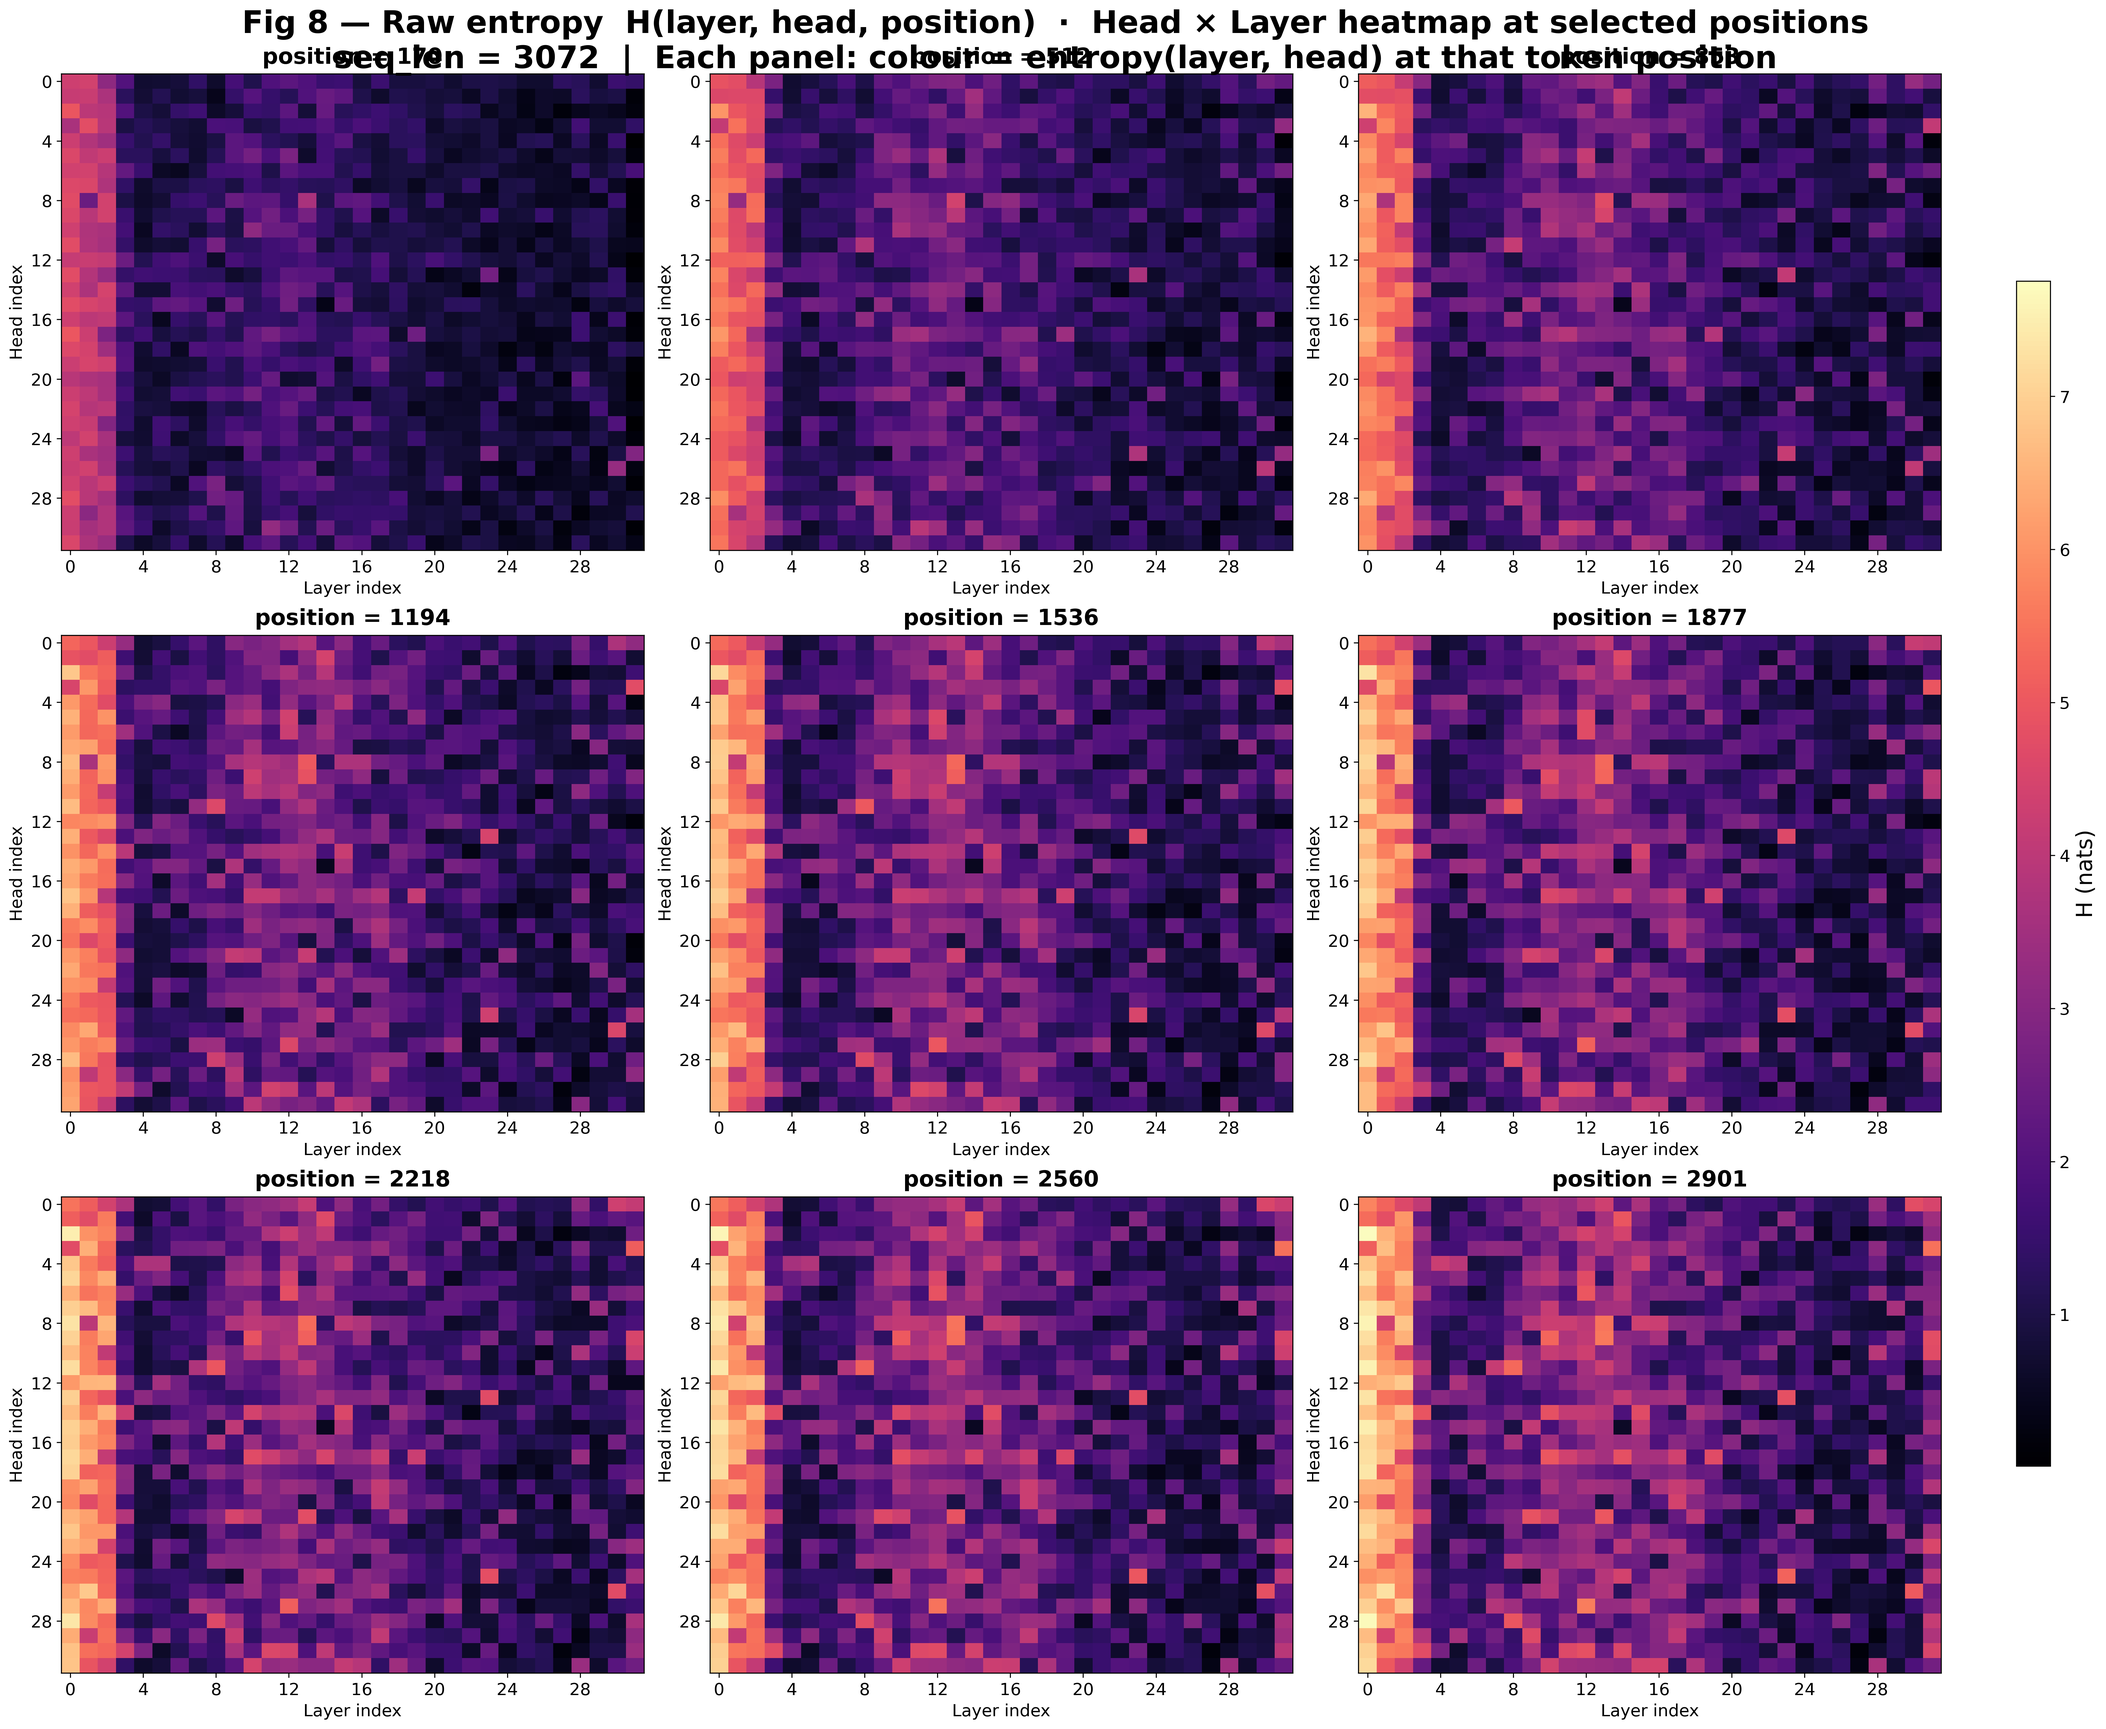
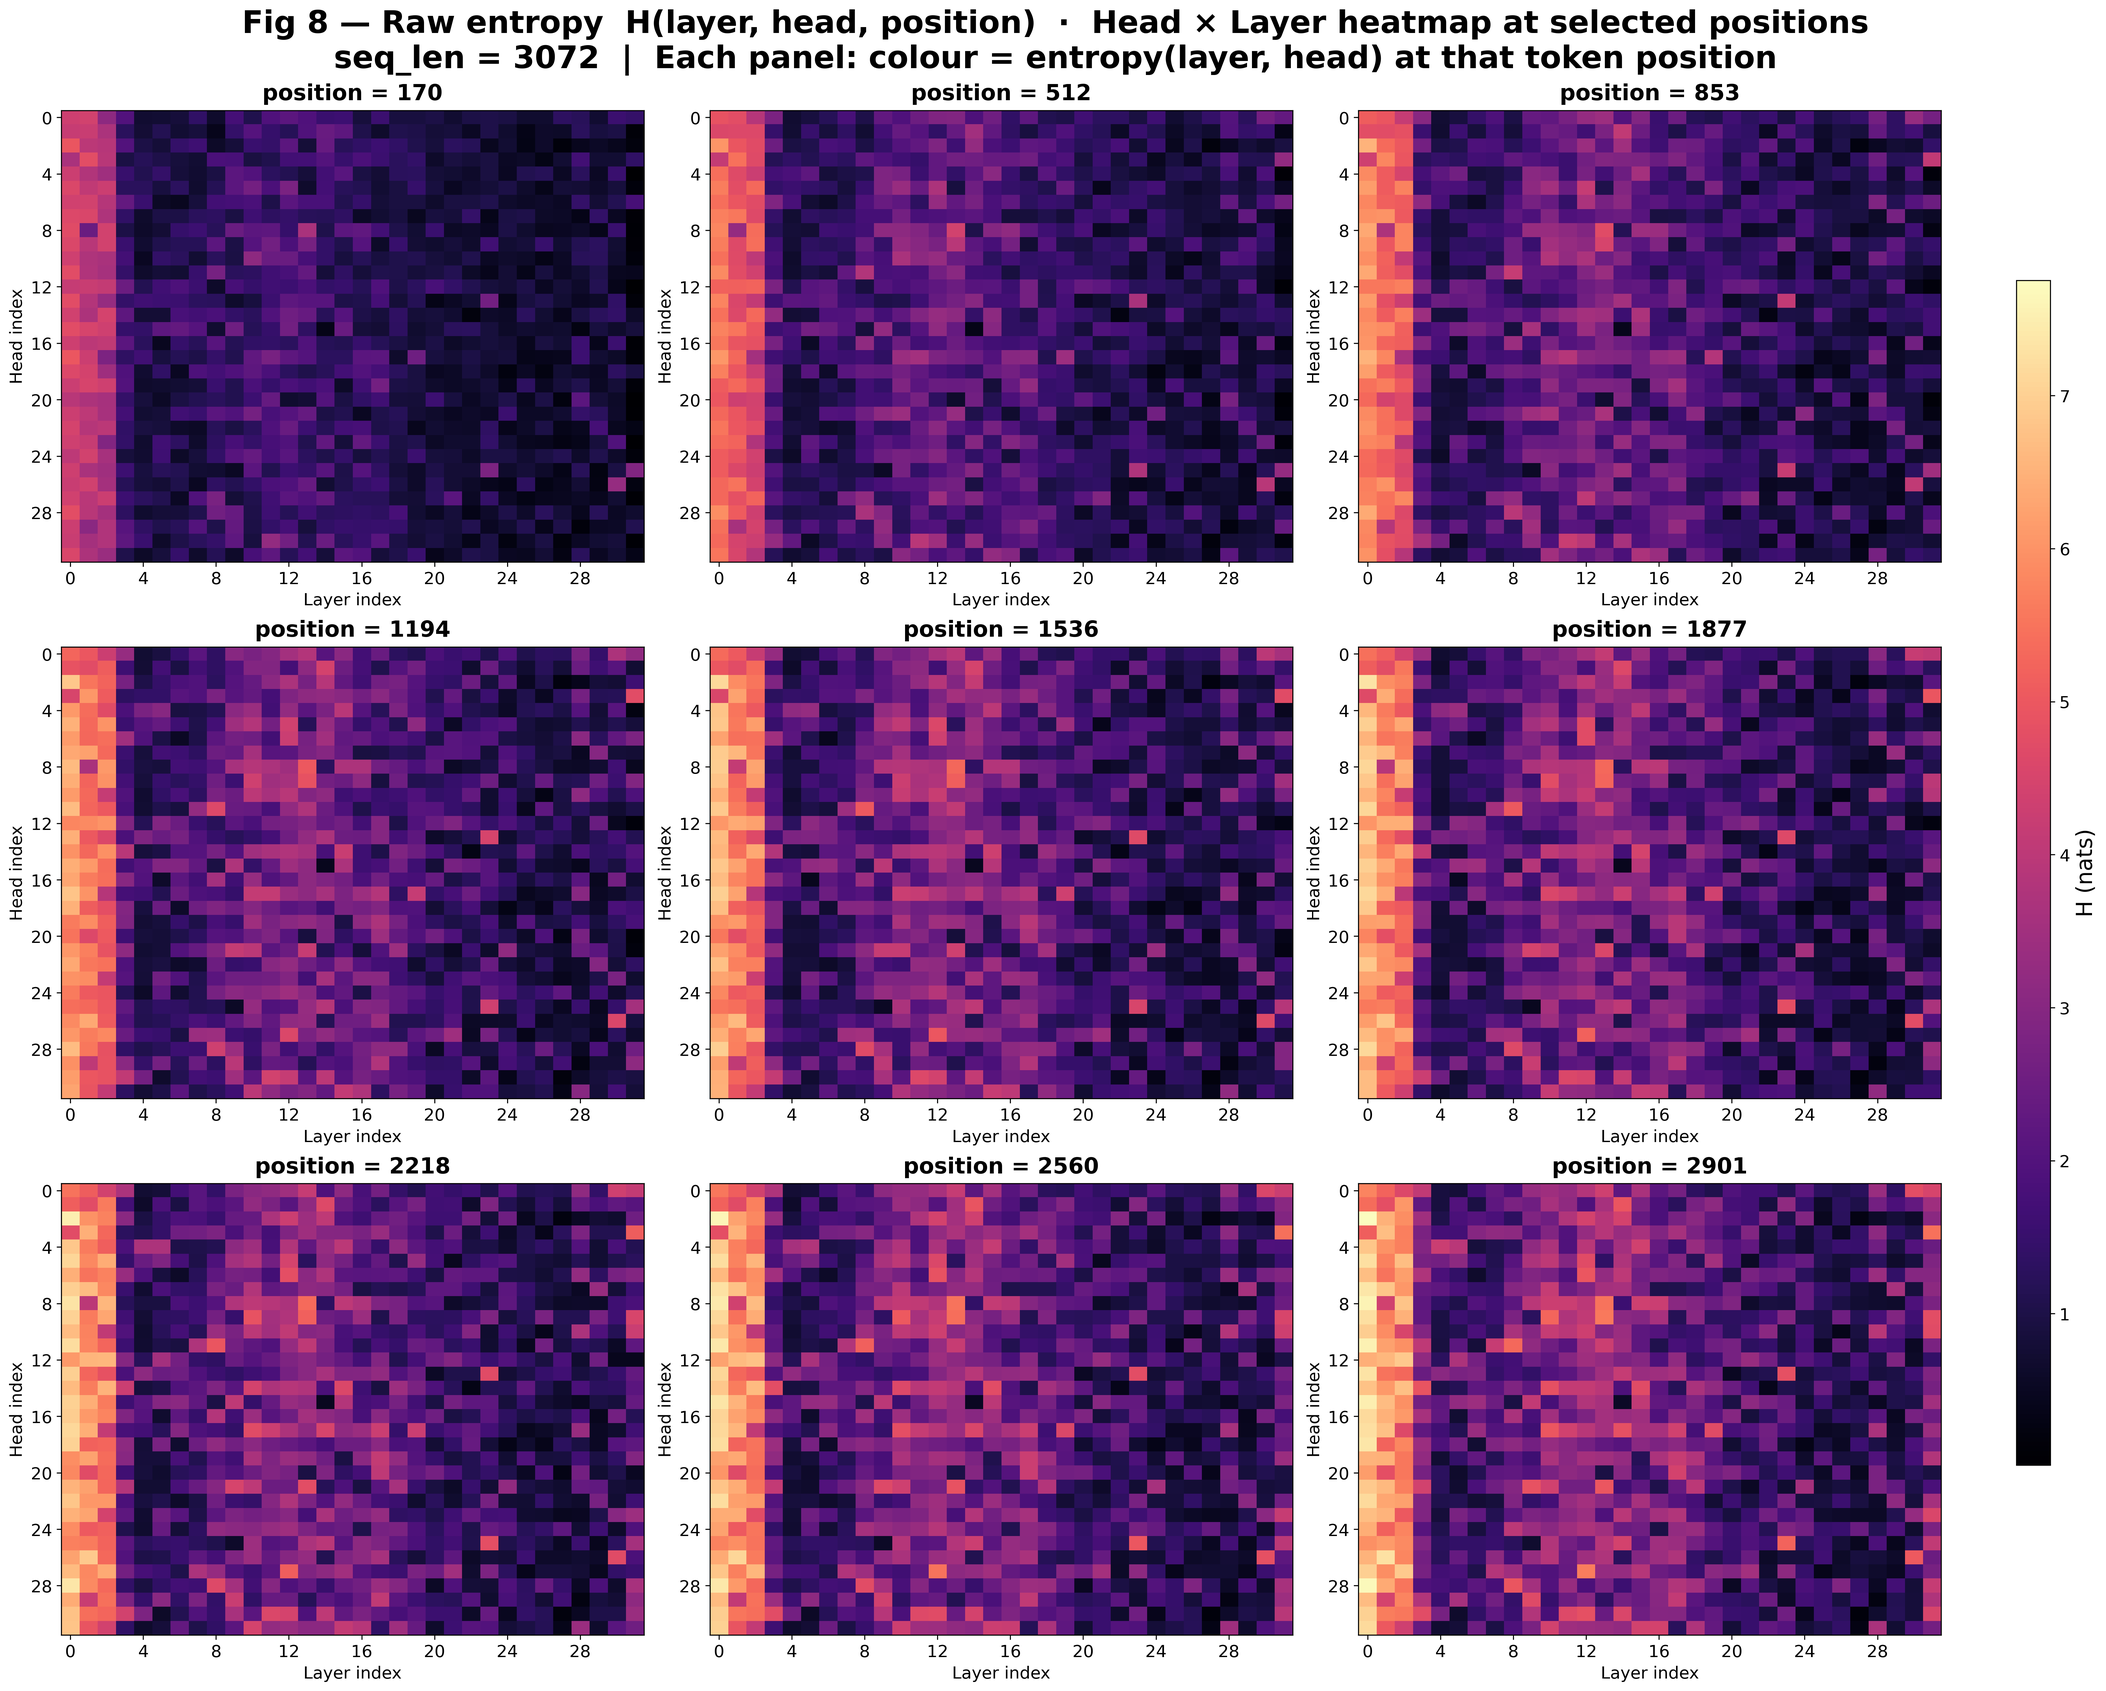
entropy 4-2 and adaptive

diff --git a/models/pe_llama.py b/models/pe_llama.py
@@ -25,6 +25,7 @@ __all__ = [
     "LlamaFreqReciprocalRotaryEmbedding",
     "LlamaFreqReciprocalScaledRotaryEmbedding",
     "LlamaFreqReciprocalScaledNoLayerRotaryEmbedding",
+    "LlamaFreqReciprocalScaledAdaptiveRotaryEmbedding",
 ]
 
 # ================================================================================== #
@@ -48,6 +49,7 @@ __all__ = [
 #  LlamaFreqReciprocalScaledRotaryEmbedding (Freq-Reciprocal RoPE + attn temperature)#
 #  LlamaFreqReciprocalScaledNoLayerRotaryEmbedding                                   #
 #  (Freq-Reciprocal RoPE + attn temperature, no layer index)                         #
+#  LlamaFreqReciprocalScaledAdaptiveRotaryEmbedding                                  #
 #                                                                                    #
 #  Each class accepts a ``dynamic: bool`` constructor argument:                      #
 #    dynamic=False (default) – static mode: frequencies are pre-cached once          #
@@ -1789,6 +1791,97 @@ class LlamaFreqReciprocalScaledNoLayerRotaryEmbedding(
         S_t = 1.0 + 0.1 * t.log()
 
         return S_t.unsqueeze(-1)
+
+    def _set_cos_sin_cache(self, seq_len: int, device, dtype):
+        super()._set_cos_sin_cache(seq_len, device, dtype)
+        attn_scale = self._compute_attn_scale(seq_len, device)
+        self.register_buffer(
+            "cos_cached",
+            (self.cos_cached * attn_scale).to(dtype),
+            persistent=False,
+        )
+        self.register_buffer(
+            "sin_cached",
+            (self.sin_cached * attn_scale).to(dtype),
+            persistent=False,
+        )
+
+    def forward(self, x: torch.Tensor, seq_len: int = None):
+        if self.dynamic:
+            if seq_len is None:
+                seq_len = x.shape[2]
+            cos, sin = super().forward(x, seq_len)
+            S = max(1.0, seq_len / self.original_max_position_embeddings)
+            attn_scale = self._compute_attn_scale(seq_len, x.device)
+            return (cos * attn_scale).to(x.dtype), (sin * attn_scale).to(x.dtype)
+        return super().forward(x, seq_len)
+
+
+class LlamaFreqReciprocalScaledAdaptiveRotaryEmbedding(
+    LlamaFreqReciprocalRotaryEmbedding
+):
+    def __init__(
+        self,
+        dim: int,
+        max_position_embeddings: int = 2048,
+        base: int = 10000,
+        device=None,
+        scaling_factor: float = 1.0,
+        original_max_position_embeddings: int = 2048,
+        layer_idx: int = 0,
+        num_hidden_layers: int = 32,
+        dynamic: bool = False,
+    ):
+        super().__init__(
+            dim=dim,
+            max_position_embeddings=max_position_embeddings,
+            base=base,
+            device=device,
+            scaling_factor=scaling_factor,
+            original_max_position_embeddings=original_max_position_embeddings,
+            layer_idx=layer_idx,
+            num_hidden_layers=num_hidden_layers,
+            dynamic=dynamic,
+        )
+        self.alpha = 0.15
+        self.beta = 0.8
+        self.gamma = 0.7
+
+    def _compute_layer_factor(self) -> float:
+        a = 0.05
+        b = 0.05
+
+        normalized_layer = self.layer_idx / (self.N - 1)
+
+        factor = (
+            1.0 + a * math.sin(2 * math.pi * normalized_layer) + b * normalized_layer
+        )
+
+        # 限制范围 [0.9, 1.15]
+        return min(max(factor, 0.9), 1.15)
+
+    def _compute_attn_scale(self, seq_len: int, device):
+        S = max(1.0, seq_len / self.original_max_position_embeddings)
+        layer_factor = self._compute_layer_factor()
+
+        positions = torch.arange(seq_len, device=device, dtype=torch.float32)
+        L0 = self.original_max_position_embeddings
+
+        rel_pos = positions - L0
+        rel_ratio = rel_pos / L0
+        position_factors = torch.where(
+            positions < L0,
+            torch.ones_like(positions),
+            1.0 + self.beta * torch.clamp(rel_ratio, min=0.0).pow(self.gamma),
+        )
+
+        attn_scale = torch.where(
+            positions < L0,
+            torch.ones_like(positions),
+            1.0 + self.alpha * math.log(S) * layer_factor * position_factors,
+        )
+
+        return attn_scale.unsqueeze(-1)
 
     def _set_cos_sin_cache(self, seq_len: int, device, dtype):
         super()._set_cos_sin_cache(seq_len, device, dtype)

diff --git a/models/modeling_llama.py b/models/modeling_llama.py
@@ -471,6 +471,18 @@ class LlamaAttention(nn.Module):
                 dynamic=dynamic,
             )
 
+        elif scaling_type == "freq-reciprocal-scaled-adaptive":
+            self.rotary_emb = LlamaFreqReciprocalScaledAdaptiveRotaryEmbedding(
+                dim=self.head_dim,
+                max_position_embeddings=self.max_position_embeddings,
+                base=self.rope_theta,
+                scaling_factor=scaling_factor,
+                original_max_position_embeddings=self.original_max_position_embeddings,
+                layer_idx=self.layer_idx,
+                num_hidden_layers=self.config.num_hidden_layers,
+                dynamic=dynamic,
+            )
+
         else:
             raise ValueError(
                 f"Unknown RoPE scaling type '{scaling_type}'. "
@@ -478,7 +490,8 @@ class LlamaAttention(nn.Module):
                 "my-rope, my-rope-scaled, my-rope2, my-rope2-scaled, "
                 "block-layered, block-layered-scaled, "
                 "freq-smooth, freq-smooth-scaled, "
-                "freq-reciprocal, freq-reciprocal-scaled, freq-reciprocal-scaled-no-layer."
+                "freq-reciprocal, freq-reciprocal-scaled,"
+                "freq-reciprocal-scaled-no-layer, freq-reciprocal-scaled-adaptive."
             )
 
     # ------------------------------------------------------------------ #

diff --git a/models/configuration_llama.py b/models/configuration_llama.py
@@ -163,6 +163,7 @@ class LlamaConfig(PretrainedConfig):
         * ``"freq-reciprocal"`` — reciprocal frequency RoPE
         * ``"freq-reciprocal-scaled"`` — scaled reciprocal frequency RoPE
         * ``"freq-reciprocal-scaled-no-layer"`` — scaled reciprocal frequency RoPE, no layer index
+        * ``"freq-reciprocal-scaled-adaptive"`` — scaled reciprocal frequency RoPE, adaptive scaling
 
         All seven types share the same ``"factor"`` / ``"dynamic"`` interface:
 
@@ -209,6 +210,7 @@ class LlamaConfig(PretrainedConfig):
             "dynamic-freq-reciprocal": "freq-reciprocal",
             "dynamic-freq-reciprocal-scaled": "freq-reciprocal-scaled",
             "dynamic-freq-reciprocal-scaled-no-layer": "freq-reciprocal-scaled-no-layer",
+            "dynamic-freq-reciprocal-scaled-adaptive": "freq-reciprocal-scaled-adaptive",
         }
         if rope_scaling_type in _deprecated_dynamic_map:
             new_type = _deprecated_dynamic_map[rope_scaling_type]
@@ -239,6 +241,7 @@ class LlamaConfig(PretrainedConfig):
             "freq-reciprocal",
             "freq-reciprocal-scaled",
             "freq-reciprocal-scaled-no-layer",
+            "freq-reciprocal-scaled-adaptive",
         ]
         if rope_scaling_type is None or rope_scaling_type not in valid_types:
             raise ValueError(

diff --git a/eval/plot_entropy.py b/eval/plot_entropy.py
@@ -1180,7 +1180,6 @@ def _plot_pos_layer_head_one(
         f"Fig 8 — {title_prefix}  ·  Head × Layer heatmap at selected positions\n"
         f"seq_len = {seq_len}  |  Each panel: colour = entropy(layer, head) at that token position",
         fontsize=_SUPTITLE_FS,
-        y=1.02,
         fontweight="bold",
     )
     _savefig(fig, os.path.join(out_dir, fname), dpi, constrained_layout=True)

diff --git a/models/model_loader.py b/models/model_loader.py
@@ -26,6 +26,7 @@ _ROPE_TYPES_WITH_DYNAMIC_FLAG = {
     "freq-reciprocal",
     "freq-reciprocal-scaled",
     "freq-reciprocal-scaled-no-layer",
+    "freq-reciprocal-scaled-adaptive",
 }
 _ROPE_TYPE_NONE = "none"
 
